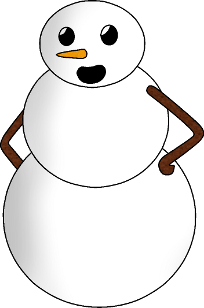
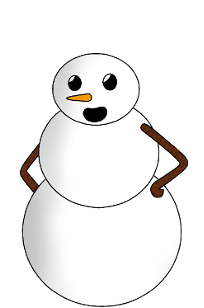
Resized snowman, application is now running instead of snowPlusPlus

diff --git a/src/application.h b/src/application.h
@@ -1,1 +1,24 @@
-//application.h
+#ifndef APPLICATION_H
+#define APPLICATION_H
+
+#include <QWidget>
+#include <QString>
+#include <QPainter>
+#include "blockPalette.h"
+#include "codeFrame.h"
+#include "messageBox.h"
+#include "snowPlusPlus.h"
+
+
+class application :public QWidget{
+    Q_OBJECT
+
+public:
+   application(QWidget *parent=0);
+private:
+   snowPlusPlus* game;
+
+};
+
+
+#endif

diff --git a/src/main.cpp b/src/main.cpp
@@ -1,11 +1,10 @@
 #include "application.h"
-#include "snowPlusPlus.h"
 #include <QApplication>
 
 int main(int argc, char *argv[])
 {
   QApplication app(argc, argv);
-  snowPlusPlus a;
+  application a;
   a.show();
 
   return app.exec();

diff --git a/src/application.cpp b/src/application.cpp
@@ -1,1 +1,9 @@
 //application.cpp
+#include "application.h"
+
+application::application(QWidget *parent) : QWidget(parent)
+{
+  game = new snowPlusPlus(this);
+  setFixedSize(1024,576);
+  game->show();
+}
